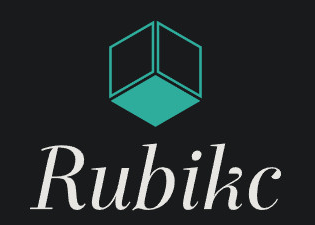
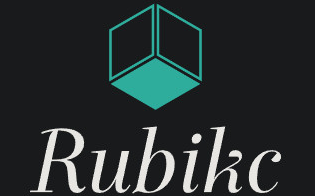
1. Fixed more typos 2. Resized Image to Optimize load time 3. Changed Footer 4. Changed Blog Image Path for Visual Studio Graphic Blog

diff --git a/layouts/partials/sections/footer/copyright.html b/layouts/partials/sections/footer/copyright.html
@@ -8,7 +8,7 @@
                 </a>
             </div>
             &copy; {{ now.Format "2006"}} {{ .Site.Params.copyright }} {{ .Site.Params.terms.copyright | default "All Rights Reserved" }}
-            <div class="text-secondary">
+            <!-- <div class="text-secondary">
                 Made with
                 <span class="text-danger">
                     &#10084;
@@ -18,7 +18,7 @@
                     title="Designed and developed by gurusabarish">
                     Hugo Profile
                 </a>
-            </div>
+            </div> -->
         </div>
     </div>
 </div>

diff --git a/exampleSite/content/blogs/How-to-setup-Visual-Studio-Community-for-using-graphic.h-with-CPP.md b/exampleSite/content/blogs/How-to-setup-Visual-Studio-Community-for-using-graphic.h-with-CPP.md
@@ -52,28 +52,28 @@ Note: you can setup graphic.h to work with both [Visual studio Community](https:
 
 **Step 2:** Install Visual Studio Community as you would install any other setup. After installing Visual Studio Community, open Visual studio community installer by searching it in the start menu as shown in below screenshots
 
-![](images/How-to-setup-Visual-Studio-Community-for-using-graphic.h-with-CPP/media/Open_VSCOmmunity.jpg)
+![](/images/How-to-setup-Visual-Studio-Community-for-using-graphic.h-with-CPP/media/Open_VSCOmmunity.jpg)
 
 **Step 3:** Once Visual Studio Community Installer opens up click on modify to modify your installation.
 
-![](images/How-to-setup-Visual-Studio-Community-for-using-graphic.h-with-CPP/media/VSCOmmunity_Installer_Modify.jpg)
+![](/images/How-to-setup-Visual-Studio-Community-for-using-graphic.h-with-CPP/media/VSCOmmunity_Installer_Modify.jpg)
 
 
 **Step 4:** Choose The Highlighted workload below to download and install it in your Visual Studio Community Installation.
 
-![](images/How-to-setup-Visual-Studio-Community-for-using-graphic.h-with-CPP/media/Workload.png)
+![](/images/How-to-setup-Visual-Studio-Community-for-using-graphic.h-with-CPP/media/Workload.png)
 
 **Step 5:** After installing the workload, We would also need to download one more file that is **WinBGIm Graphics Library for Visual Studio**. Here **BGI** Stands for (**Borland Graphics Interface**) [Click Here](https://home.cs.colorado.edu/~main/bgi/visual/), download the “BGI2010.zip” File
 
-![](images/How-to-setup-Visual-Studio-Community-for-using-graphic.h-with-CPP/media/Download_winBGI.jpg)
+![](/images/How-to-setup-Visual-Studio-Community-for-using-graphic.h-with-CPP/media/Download_winBGI.jpg)
 
 **Step 6:** After downloading, right-click the file and select "Extract All" to unarchive the files in your desired path/directory.  
 
-![](images/How-to-setup-Visual-Studio-Community-for-using-graphic.h-with-CPP/media/Extract_winBGI.jpg)
+![](/images/How-to-setup-Visual-Studio-Community-for-using-graphic.h-with-CPP/media/Extract_winBGI.jpg)
 
 The new directory will be created, named BGI, it has all necessary files that you will need (including the WinBGIm which contains graphic.h, winbgim.h and winbgi.h Libraries and a pre-set project that is already set up to you to test them) in order to create a computer graphics programs in Visual Studio community. 
 
-![](images/How-to-setup-Visual-Studio-Community-for-using-graphic.h-with-CPP/media/Graphics_Workspace.jpg)
+![](/images/How-to-setup-Visual-Studio-Community-for-using-graphic.h-with-CPP/media/Graphics_Workspace.jpg)
 
 
 You should now rename of this folder to a name for your own liking that is easy to remember for you, such as “**Graphical Programming Workspace**”. And copy it to a easily accessible location such as your Document folder or your desktop. 
@@ -85,7 +85,7 @@ Navigate to that directory. And you will see a bunch of files there which also i
 **Step 7:** In this folder, open the file named “bgi.vcxproj”. and the project will open in Visual Studio Community.
 
 
-![](images/How-to-setup-Visual-Studio-Community-for-using-graphic.h-with-CPP/media/BGI_Project.jpg)
+![](/images/How-to-setup-Visual-Studio-Community-for-using-graphic.h-with-CPP/media/BGI_Project.jpg)
 
 
 
@@ -98,17 +98,17 @@ And Visual Studio Community will Reconfigure the Project to target the Current V
 
 
 
-![](images/How-to-setup-Visual-Studio-Community-for-using-graphic.h-with-CPP/media/Retarget_Project.jpg)
+![](/images/How-to-setup-Visual-Studio-Community-for-using-graphic.h-with-CPP/media/Retarget_Project.jpg)
 
 **Step 9:** In Visual Studio Community, Open** the solution explorer then open the source file and you will see a bunch of files there here create a new source code file(.**cpp**)
 
-![](images/How-to-setup-Visual-Studio-Community-for-using-graphic.h-with-CPP/media/Sol_Explorer.jpg)
+![](/images/How-to-setup-Visual-Studio-Community-for-using-graphic.h-with-CPP/media/Sol_Explorer.jpg)
 
-![](images/How-to-setup-Visual-Studio-Community-for-using-graphic.h-with-CPP/media/New_Source_File.jpg)
+![](/images/How-to-setup-Visual-Studio-Community-for-using-graphic.h-with-CPP/media/New_Source_File.jpg)
 
 **Step 10:** Select C++ File (.**cpp**) File. Give the new file a name(we will use “Test”), and it will be added to your project.
 
-![](images/How-to-setup-Visual-Studio-Community-for-using-graphic.h-with-CPP/media/test_file.jpg)
+![](/images/How-to-setup-Visual-Studio-Community-for-using-graphic.h-with-CPP/media/test_file.jpg)
 
 **Step 11:** Now write this code in **test.cpp** and Save the file.
 
@@ -139,11 +139,11 @@ int main()
 **Step 12:** Now build and run the Code by Clicking on **Debug** the click on **Start without Debugger** in drop down menu.
 
 
-![](images/How-to-setup-Visual-Studio-Community-for-using-graphic.h-with-CPP/media/Run_without_debugger.jpg)
+![](/images/How-to-setup-Visual-Studio-Community-for-using-graphic.h-with-CPP/media/Run_without_debugger.jpg)
 
 And you will see that your Program runs and a Circle is drawn on the console that opens up as shown in the screenshot.
 
-![](images/How-to-setup-Visual-Studio-Community-for-using-graphic.h-with-CPP/media/Drawn_Circle.jpg)
+![](/images/How-to-setup-Visual-Studio-Community-for-using-graphic.h-with-CPP/media/Drawn_Circle.jpg)
 
 
 Now, whenever you would need to write a new code just create a new file and write code in it and run just as we did for **test.cpp**
